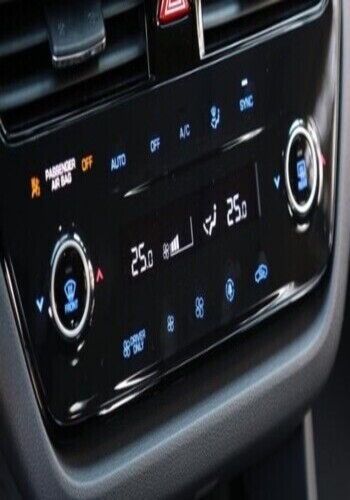
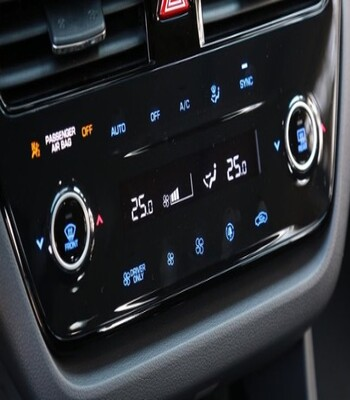
chg img

diff --git a/index.html b/index.html
@@ -586,7 +586,7 @@
             <!-- Prj IONIQ-->
             <div class="col s12 m6 l4" style ="width:100%">
               <div class="card medium" style="height:fit-content">       
-                <div class="card-image waves-effect waves-block waves-light" style="width : 350px; height :500px; float:left">
+                <div class="card-image waves-effect waves-block waves-light" style="width : 350px; height :450px; float:left">
                   <img
                     alt="Screenshot of IONIQ"
                     src="assets/img/Prj_AEPE.jpg"
